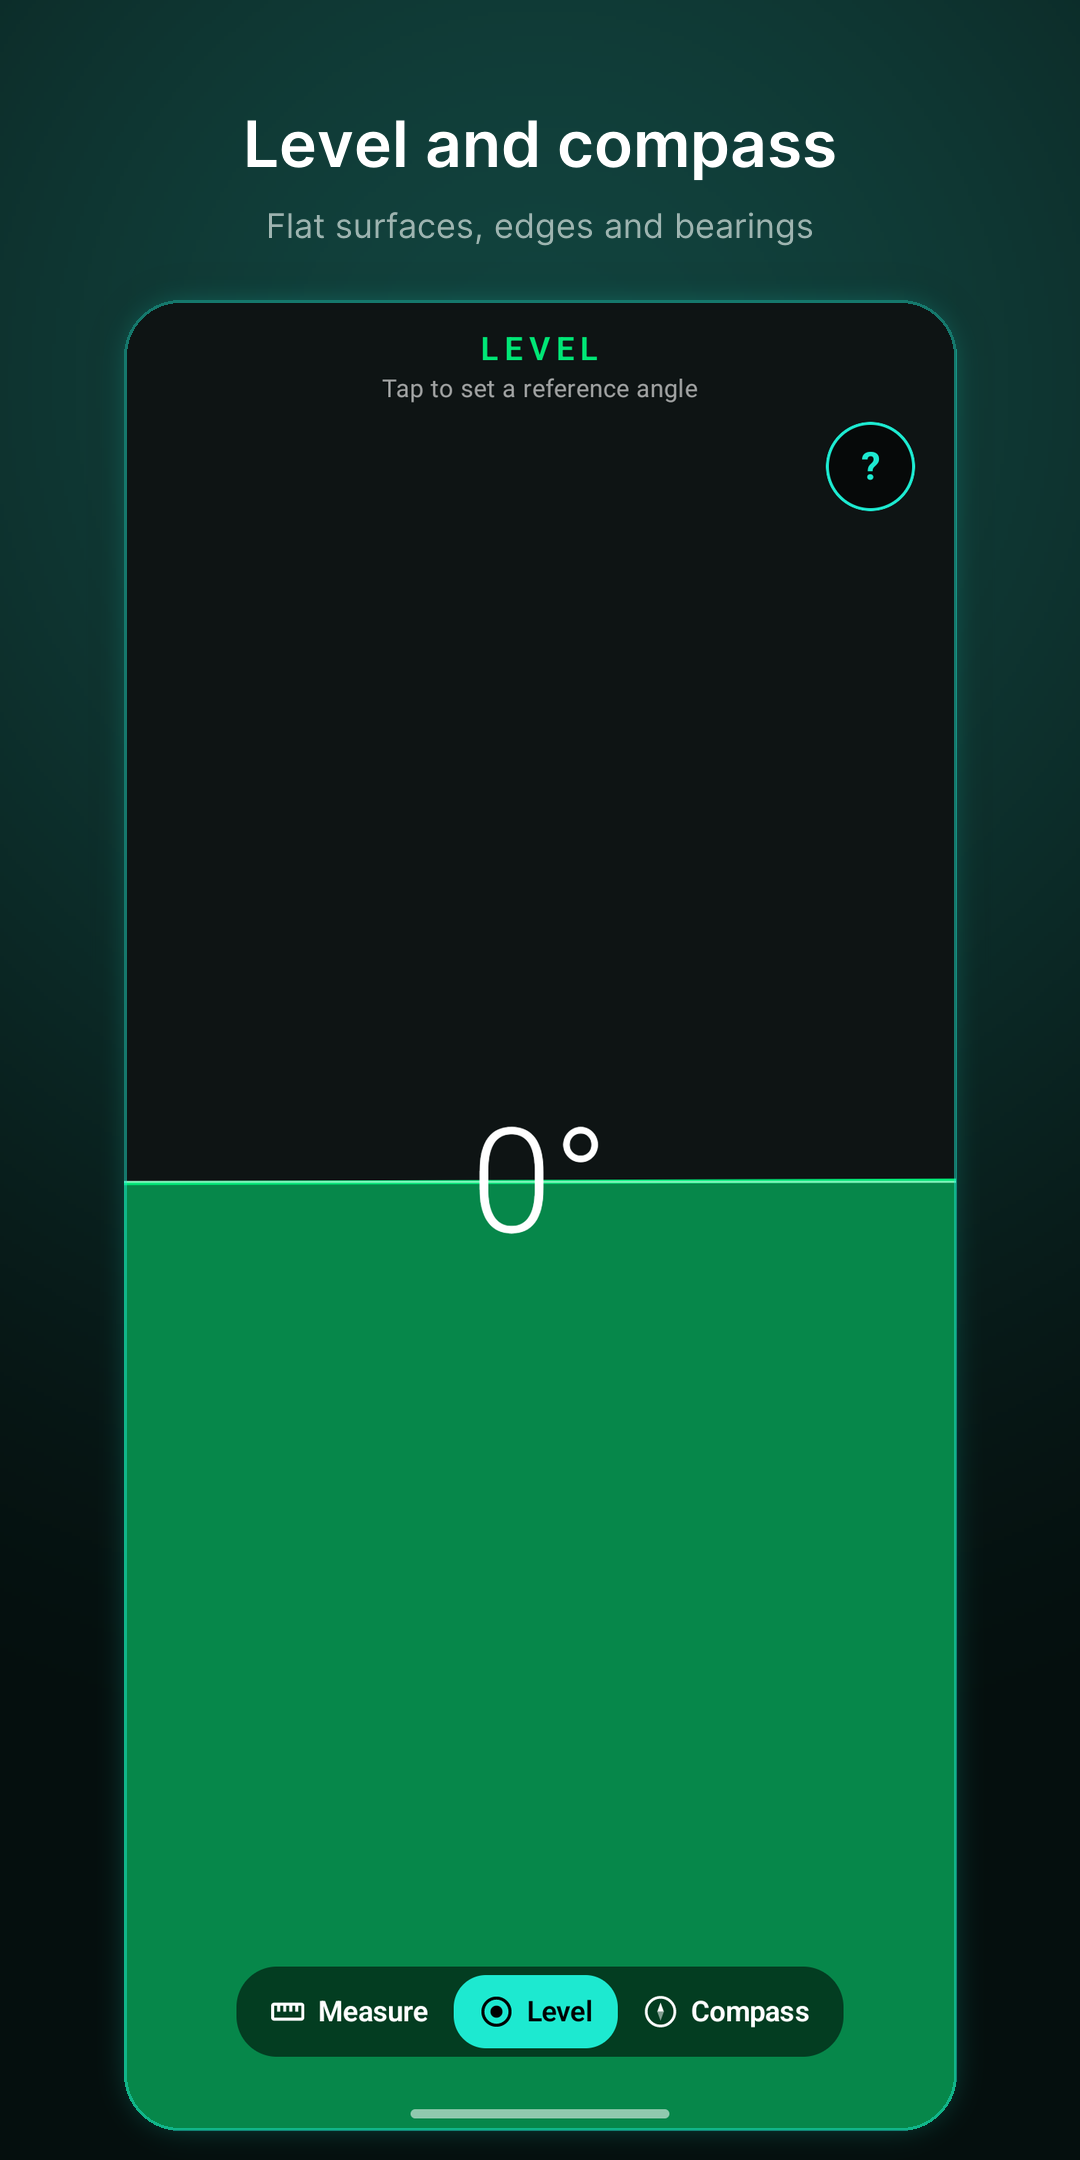
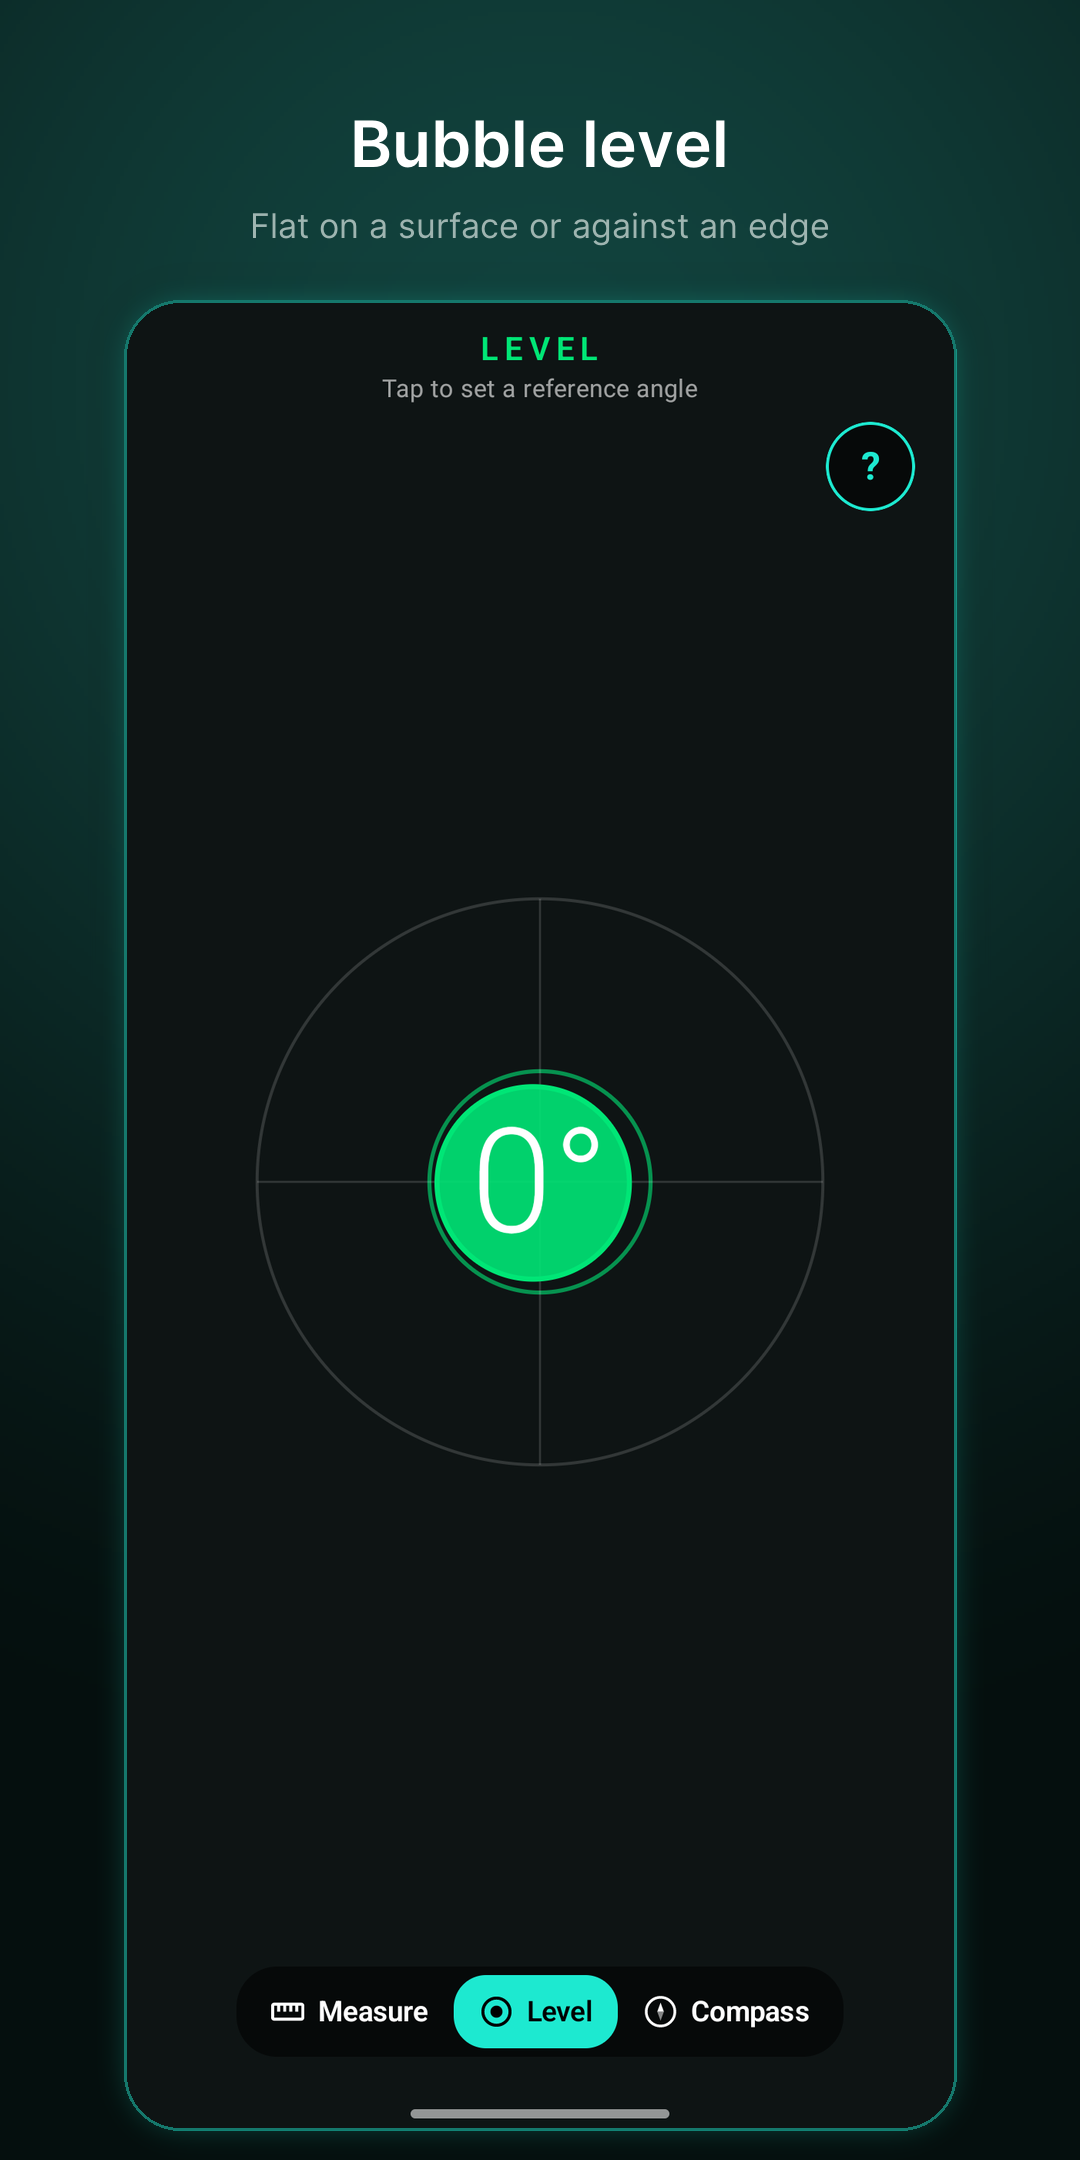
Website: screenshot carousel (one swipeable row, arrows, dots), Compass shot
Image links carry ?v= so browsers fetch the new screenshots instead of
cached 1.0 ones.

diff --git a/docs/index.html b/docs/index.html
@@ -29,8 +29,25 @@
   .card { background: var(--card); border: 1px solid rgba(29,233,208,.18); border-radius: 16px; padding: 16px 18px; }
   .card b { display: block; margin-bottom: 2px; }
   .card span { color: var(--muted); font-size: 14px; }
-  .shots { display: grid; grid-template-columns: repeat(auto-fit, minmax(240px, 1fr)); gap: 16px; }
-  .shots img { width: 100%; border-radius: 18px; }
+  /* Screenshots: one swipeable row that snaps to each shot, with arrows and dots */
+  .carousel { position: relative; }
+  .shots { display: flex; gap: 16px; overflow-x: auto; scroll-snap-type: x mandatory; scroll-behavior: smooth;
+           padding: 4px 2px 8px; scrollbar-width: none; -webkit-overflow-scrolling: touch; }
+  .shots::-webkit-scrollbar { display: none; }
+  .shots img { flex: 0 0 auto; width: calc((100% - 32px) / 3); aspect-ratio: 1 / 2; object-fit: cover;
+               border-radius: 18px; scroll-snap-align: start; }
+  .arrow { position: absolute; top: 50%; transform: translateY(-50%); width: 44px; height: 44px; border-radius: 50%;
+           border: 1px solid rgba(29,233,208,.5); background: rgba(5,15,14,.85); color: var(--teal); font-size: 22px;
+           line-height: 1; cursor: pointer; display: grid; place-items: center; }
+  .arrow:disabled { opacity: 0; pointer-events: none; }
+  .arrow.prev { left: -22px; } .arrow.next { right: -22px; }
+  .dots { display: flex; justify-content: center; gap: 8px; margin-top: 10px; }
+  .dots button { width: 8px; height: 8px; padding: 0; border: 0; border-radius: 4px; background: rgba(230,242,240,.25); cursor: pointer; transition: width .2s; }
+  .dots button.on { width: 22px; background: var(--teal); }
+  @media (max-width: 640px) {
+    .shots img { width: 72%; scroll-snap-align: center; }
+    .arrow { display: none; }
+  }
   ol { padding-left: 22px; } li { margin: 6px 0; }
   .note { background: var(--card); border-left: 3px solid var(--teal); border-radius: 8px; padding: 12px 16px; color: var(--muted); }
   footer { text-align: center; color: var(--muted); font-size: 14px; padding: 24px 16px 40px; }
@@ -84,12 +101,46 @@
   </div>
 
   <h2>Screenshots</h2>
-  <div class="shots">
-    <img src="shot-welcome.png" alt="Welcome screen: measure with your camera">
-    <img src="shot-modes.png" alt="Mode picker with twelve measuring modes in groups">
-    <img src="shot-help.png" alt="Illustrated step-by-step help guide">
-    <img src="shot-level.png" alt="Bubble level reading 0 degrees">
+  <div class="carousel">
+    <div class="shots" id="shots">
+      <img src="shot-welcome.png?v=1.2.1" alt="Welcome screen: measure with your camera">
+      <img src="shot-modes.png?v=1.2.1" alt="Mode picker with twelve measuring modes in groups">
+      <img src="shot-help.png?v=1.2.1" alt="Illustrated step-by-step help guide">
+      <img src="shot-level.png?v=1.2.1" alt="Bubble level reading 0 degrees">
+      <img src="shot-compass.png?v=1.2.1" alt="Compass showing a heading of 287 degrees west">
+    </div>
+    <button class="arrow prev" aria-label="Previous screenshot">‹</button>
+    <button class="arrow next" aria-label="Next screenshot">›</button>
   </div>
+  <div class="dots" id="dots"></div>
+  <script>
+    (function () {
+      var row = document.getElementById('shots');
+      var shots = row.querySelectorAll('img');
+      var dots = document.getElementById('dots');
+      var prev = document.querySelector('.arrow.prev');
+      var next = document.querySelector('.arrow.next');
+      function step() { return shots[0].getBoundingClientRect().width + 16; }
+      function current() { return Math.round(row.scrollLeft / step()); }
+      shots.forEach(function (_, i) {
+        var b = document.createElement('button');
+        b.setAttribute('aria-label', 'Screenshot ' + (i + 1));
+        b.onclick = function () { row.scrollTo({ left: i * step() }); };
+        dots.appendChild(b);
+      });
+      function update() {
+        var i = current();
+        dots.querySelectorAll('button').forEach(function (b, k) { b.classList.toggle('on', k === i); });
+        prev.disabled = row.scrollLeft < 4;
+        next.disabled = row.scrollLeft + row.clientWidth > row.scrollWidth - 4;
+      }
+      prev.onclick = function () { row.scrollBy({ left: -step() }); };
+      next.onclick = function () { row.scrollBy({ left: step() }); };
+      row.addEventListener('scroll', function () { window.requestAnimationFrame(update); });
+      window.addEventListener('resize', update);
+      update();
+    })();
+  </script>
 
   <h2>How to install</h2>
   <ol>
